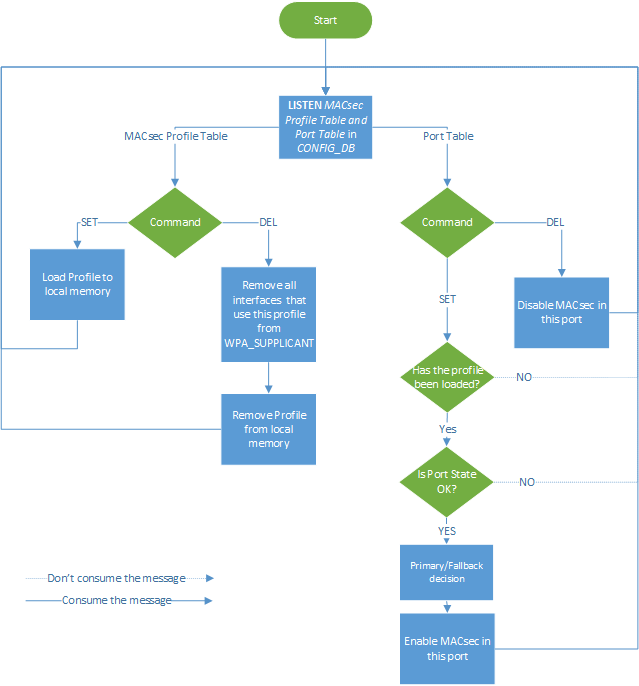
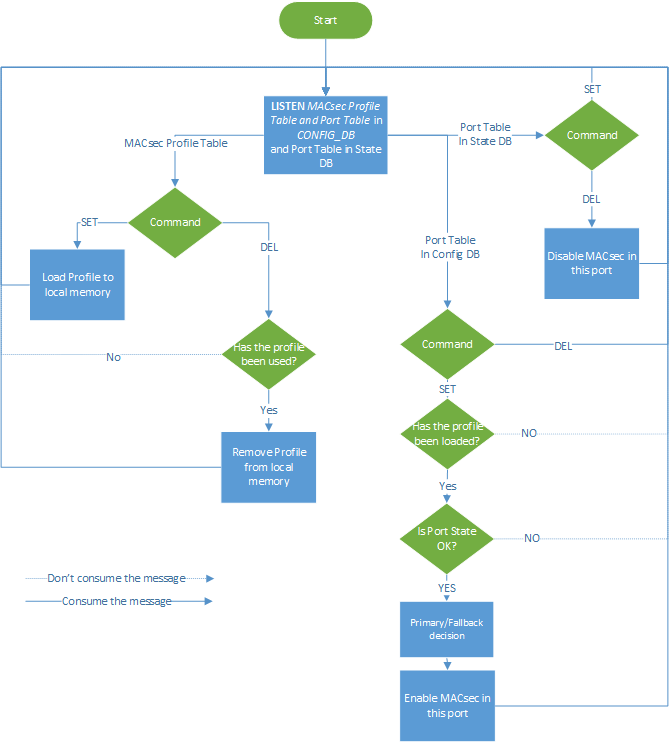
Add flow charts

diff --git a/doc/macsec/MACsec_hld.md b/doc/macsec/MACsec_hld.md
@@ -52,9 +52,15 @@
     - [3.4.5 vMACsec SAI](#345-vmacsec-sai)
 - [4 Flow](#4-flow)
   - [4.1 Init Port](#41-init-port)
-  - [4.2 Init MACsec](#42-init-macsec)
+  - [4.2 MACsec Init](#42-macsec-init)
   - [4.3 Create and Enable Ingress SA](#43-create-and-enable-ingress-sa)
   - [4.3 Create and Enable Egress SA](#43-create-and-enable-egress-sa)
+  - [4.4 Create Ingress/Egress SC](#44-create-ingressegress-sc)
+  - [4.5 Deinit Port](#45-deinit-port)
+  - [4.6 MACsec Deinit](#46-macsec-deinit)
+  - [4.7 Disable and Remove and Ingress SA](#47-disable-and-remove-and-ingress-sa)
+  - [4.8 Disable and Remove and Egress SA](#48-disable-and-remove-and-egress-sa)
+  - [4.9 Remove Ingress/Egress SC](#49-remove-ingressegress-sc)
 
 ## About this Manual
 
@@ -641,9 +647,9 @@ Create macsec netdev on the virtual physical port, and then configure the macsec
 
 ![init port](images/init_port.png)  
 
-### 4.2 Init MACsec
+### 4.2 MACsec Init
 
-![init macsec](images/init_macsec.png)  
+![macsec init](images/macsec_init.png)  
 
 ### 4.3 Create and Enable Ingress SA
 
@@ -652,3 +658,29 @@ Create macsec netdev on the virtual physical port, and then configure the macsec
 ### 4.3 Create and Enable Egress SA
 
 ![create and enable sa](images/create_and_enable_egress_sa.png)  
+
+### 4.4 Create Ingress/Egress SC
+
+![create ingress egress sc](images/create_ingress_egress_sc.png)  
+
+### 4.5 Deinit Port
+
+![deinit port](images/deinit_port.png)  
+
+### 4.6 MACsec Deinit
+
+![macsec deinit](images/macsec_deinit.png)  
+
+### 4.7 Disable and Remove and Ingress SA
+
+![disable and remove ingress sa](images/disable_and_remove_ingress_sa.png)  
+
+### 4.8 Disable and Remove and Egress SA
+
+![disable and remove egress sa](images/disable_and_remove_egress_sa.png)  
+
+***The message, disable transmit SA, can be ignored because the transmit SA will be automatically disabled when the new transmit SA was installed.***
+
+### 4.9 Remove Ingress/Egress SC
+
+![remove ingress egress sc](images/remove_ingress_egress_sc.png)  
